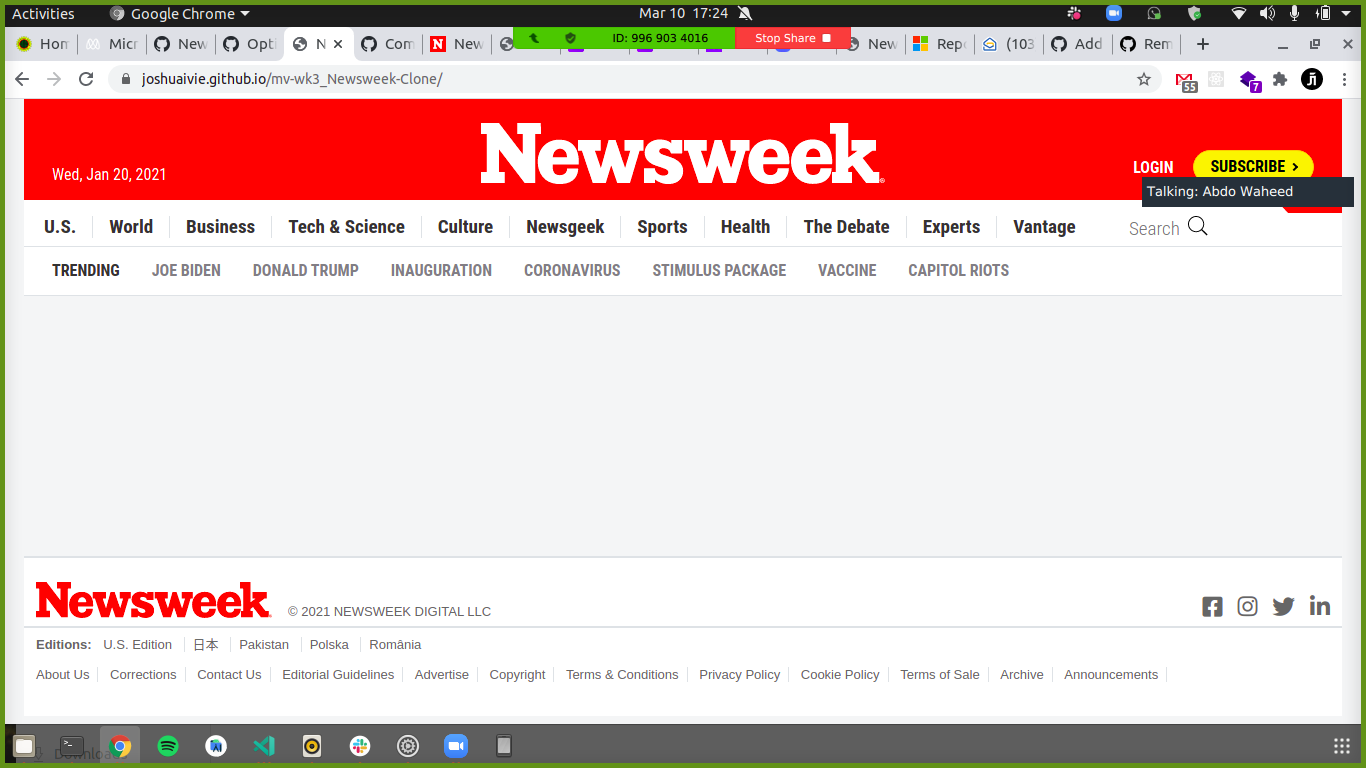
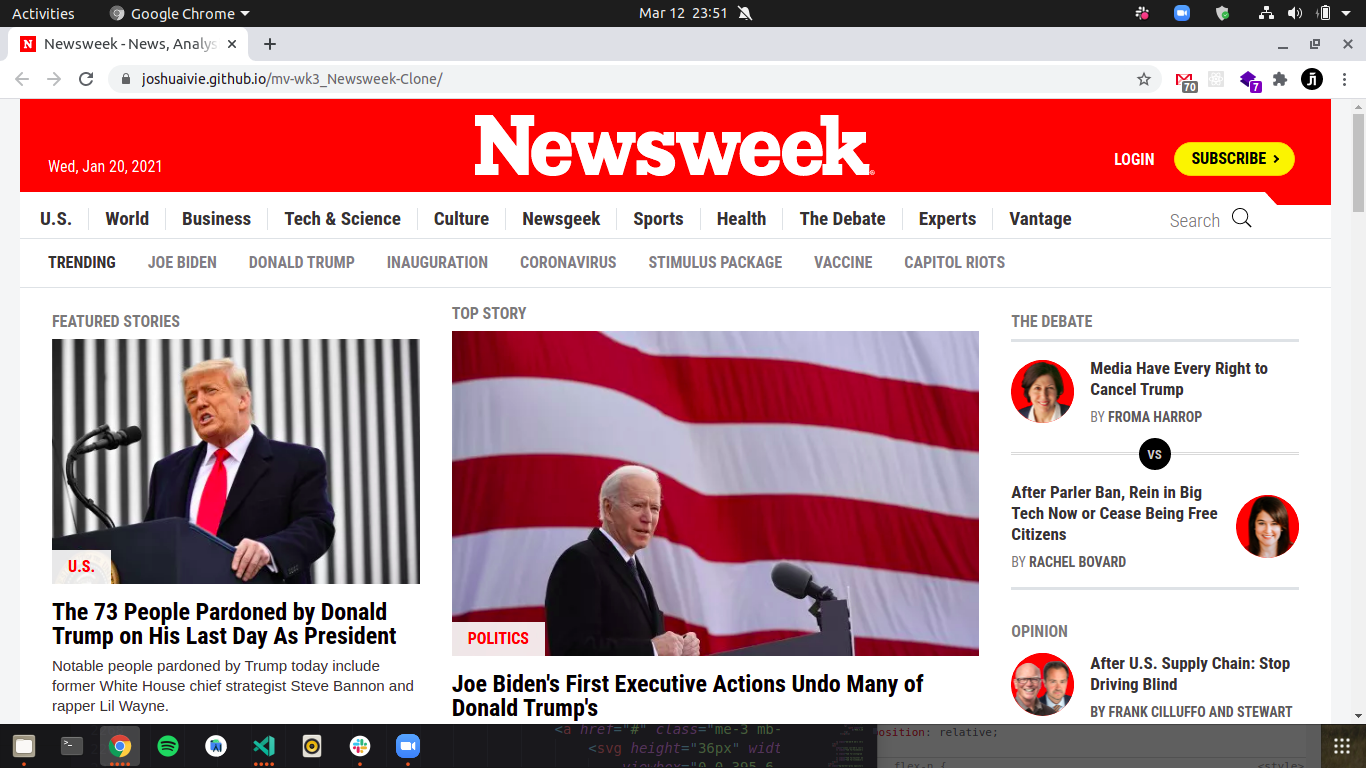
Update Readme and Screenshot

diff --git a/README.md b/README.md
@@ -29,13 +29,11 @@ To get a local copy up and running follow these simple example steps.
 
 ## Authors
 
-👤 **Author1**
+👤 **Joshua Ivie**
 
-https://github.com/joshuaivie
-
-👤 **Author2**
-
-https://github.com/AbdelrahmanWaheed33
+- GitHub: [@joshuaivie](https://github.com/joshuaivie)
+- Twitter: [@joshuaivie\_](https://twitter.com/joshuaivie_)
+- LinkedIn: [joshuaivie](https://linkedin.com/in/joshuaivie)
 
 ## 🤝 Contributing
 
